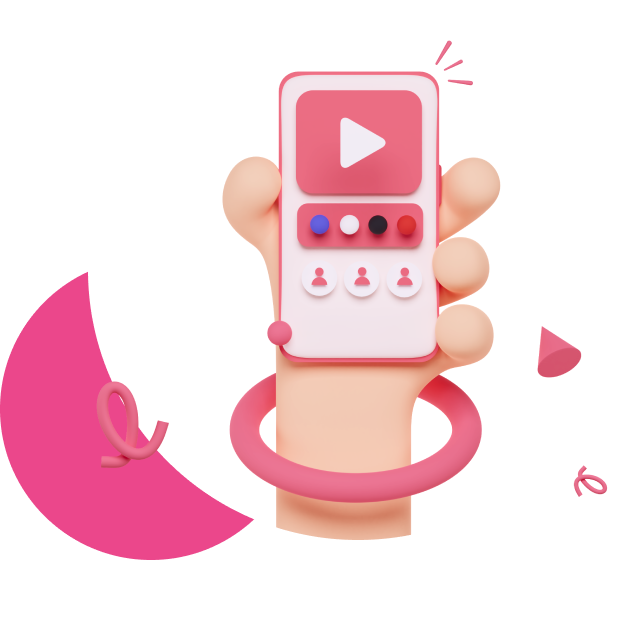
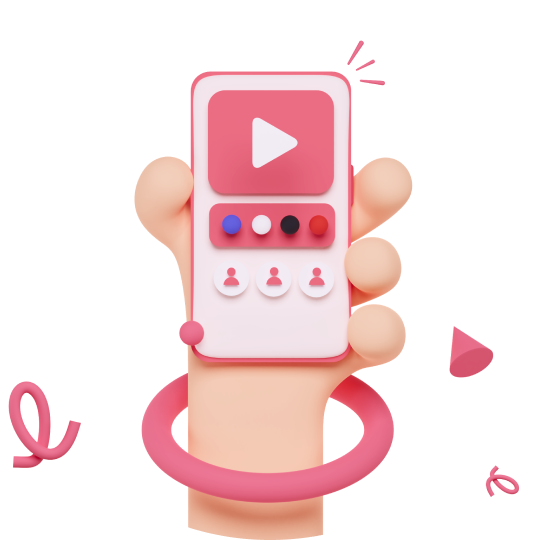
fixed screen 2

diff --git a/css/style.css b/css/style.css
@@ -280,11 +280,31 @@
   width: 100%;
   padding-left: 56px;
   padding-top: 161px;
-  height: 639px;
+  height: 540px;
 }
 .article-second-left,
 .article-second-right {
   width: 50%;
+}
+.banner-second_round__pink {
+  position: absolute;
+  width: 302px;
+  height: 302px;
+  border-radius: 50%;
+  background-color: #EB478B;
+  left: 0px;
+  bottom: -13px;
+  z-index: -1;
+}
+.banner-second_round__white {
+  position: absolute;
+  width: 540px;
+  height: 540px;
+  border-radius: 50%;
+  background-color: white;
+  left: 88px;
+  top: -1px;
+  z-index: 0;
 }
 .banner-second {
   position: absolute;
@@ -292,9 +312,10 @@
   background-repeat: no-repeat;
   background-size: 100%;
   background-position: 100%;
-  top: 18px;
-  width: 628px;
-  height: 639px;
+  top: -2px;
+  margin-left: 38px;
+  margin-bottom: 100px;
+  width: 540px;
+  height: 540px;
+  z-index: 1;
 }
-
-

diff --git a/index.html b/index.html
@@ -90,7 +90,11 @@
           </header>
         <div class="article-second-content">
           <div class="article-second-left">
-            <div class="banner-second"></div>
+            <div class="article-second-banner">
+              <div class="banner-second_round__white"></div>
+              <div class="banner-second_round__pink"></div>
+              <div class="banner-second"></div>
+            </div>
           </div>
           <div class="article-second-right">
             <div class="scroll-second">
